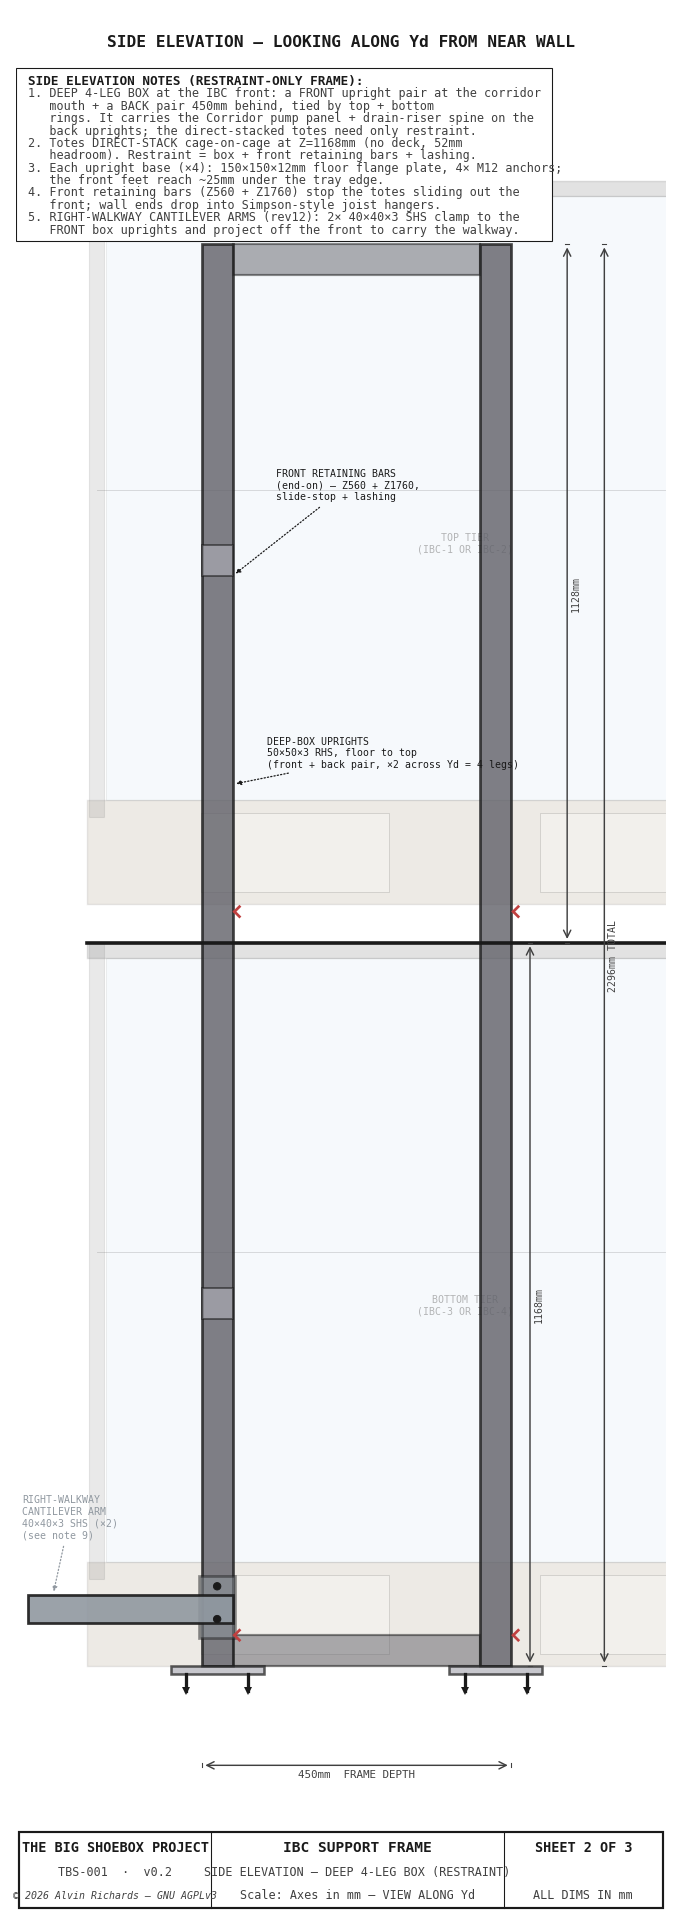
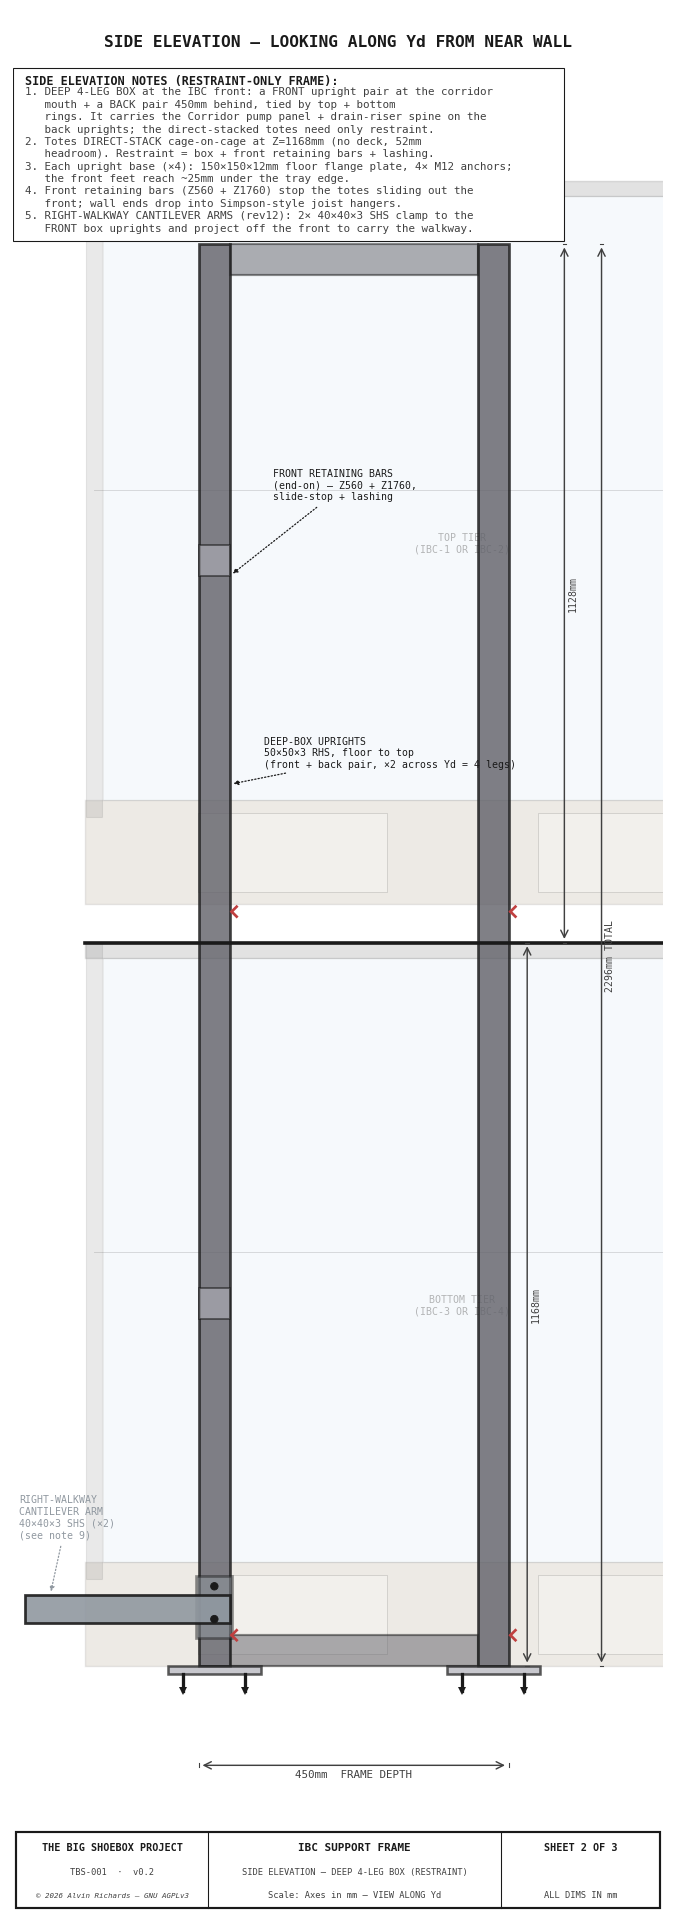
Tidy labels

diff --git a/src/generators/generate_ibc_frame_drawing.py b/src/generators/generate_ibc_frame_drawing.py
@@ -181,7 +181,7 @@ def _foot_elev(ax, c, *, zo=7):
     """Floor flange foot in elevation (edge-on): a wide thin plate just below
     Z=0 plus two anchor-bolt stubs.  `c` = horizontal position (Yd or X)."""
     half = FOOT_PLATE / 2
-    _rhs_rect(ax, c - half, -FOOT_PLATE_T, FOOT_PLATE, FOOT_PLATE_T, 
+    _rhs_rect(ax, c - half, -FOOT_PLATE_T, FOOT_PLATE, FOOT_PLATE_T,
               fc=C_STEEL, lw=1.4, zo=zo)
     for d in (-FOOT_BOLT_PCD / 2, FOOT_BOLT_PCD / 2):
         ax.plot([(c + d), (c + d)],
@@ -371,14 +371,14 @@ def sheet1():
     # ── Ghost IBC outlines (cage/pallet anatomy) — v2 layout: Brown/Waste bottom,
     #    Blue on top; DIRECT-STACK so the top tier sits at the junction (no deck). ──
     plat_top = PLATFORM_Z                       # 1168 — top tier bears directly on the lower tote
-    _ghost_ibc_elev(ax, BLUE_IBC_Y, 0, IBC_D, 
+    _ghost_ibc_elev(ax, BLUE_IBC_Y, 0, IBC_D,
                     label="IBC-3\n(BROWN, BOT NEAR)")
-    _ghost_ibc_elev_far(ax, IBC_FAR_Y, 0, IBC_D, 
+    _ghost_ibc_elev_far(ax, IBC_FAR_Y, 0, IBC_D,
                         label="IBC-4\n(WASTE, BOT FAR)")
     # Top tier (direct-stack)
-    _ghost_ibc_elev(ax, BLUE_IBC_Y, plat_top, IBC_D, 
+    _ghost_ibc_elev(ax, BLUE_IBC_Y, plat_top, IBC_D,
                     label="IBC-1\n(BLUE, TOP NEAR)")
-    _ghost_ibc_elev_far(ax, IBC_FAR_Y, plat_top, IBC_D, 
+    _ghost_ibc_elev_far(ax, IBC_FAR_Y, plat_top, IBC_D,
                         label="IBC-2\n(BLUE, TOP FAR)")
 
     # ── Front pair of the deep 4-leg box — two full-height corridor uprights.
@@ -405,10 +405,10 @@ def sheet1():
     # D-ring lashing holders. Two bars per column at the lower/upper tote mids.
     for bz in (560, 1760):
         for y0, y1 in ((0, NEAR_COL_R + FRAME_RHS), (FAR_COL_L - FRAME_RHS, C_WID)):
-            _rhs_rect(ax, y0, bz, y1 - y0, FRAME_RHS, 
+            _rhs_rect(ax, y0, bz, y1 - y0, FRAME_RHS,
                       fc=C_STEEL, alpha=0.55, lw=1.0, zo=9)
         for wyd, din in ((0, 1), (C_WID, -1)):   # wall joist hangers (U-pocket)
-            _rhs_rect(ax, min(wyd, wyd + din * 60), bz - 8, 60, FRAME_RHS + 16, 
+            _rhs_rect(ax, min(wyd, wyd + din * 60), bz - 8, 60, FRAME_RHS + 16,
                       fc=C_STEEL, lw=1.0, zo=10)
     for ydh in (520, 940, 1422, C_WID - 520):    # D-ring lashing holders (4 per tier, 8 total)
         for bz in (560, 1760):
@@ -558,7 +558,7 @@ def sheet1():
         f"10. Total frame weight: ~90 kg (incl. 4 feet + rings + front bars + hangers + exterior wall plates + rear-panel brackets).",
     ]
     draw_notes(ax, notes, (2500), (TOP_Z + 600), spacing=(23),
-               fs=7, font=FONT, width=(1800))
+               fs=7, font=FONT, width=(2200))
 
     # ── Title block ─────────────────────────────────────────────────────────
     title_block(ax, "SHEET 1 OF 3",
@@ -615,10 +615,10 @@ def sheet2():
     ibc_x_offset = (FRAME_FOOTPRINT_D - IBC_W) / 2 + 200# ~32.5mm
     plat_top = PLATFORM_Z + FRAME_RHS + MAT_T
     # Bottom tier
-    _ghost_ibc_elev(ax, ibc_x_offset, 0, IBC_W, 
+    _ghost_ibc_elev(ax, ibc_x_offset, 0, IBC_W,
                     label="BOTTOM TIER\n(IBC-3 OR IBC-4)")
     # Top tier
-    _ghost_ibc_elev(ax, ibc_x_offset, plat_top, IBC_W, 
+    _ghost_ibc_elev(ax, ibc_x_offset, plat_top, IBC_W,
                     label="TOP TIER\n(IBC-1 OR IBC-2)")
 
     # ── Uprights (deep 4-leg box: front pair + back pair, 450mm apart) ───────
@@ -640,7 +640,7 @@ def sheet2():
 
     # ── Front retaining bars (end-on at the IBC front, both tiers) ──────────
     for bz in (560, 1760):
-        _rhs_rect(ax, FX_FRONT, bz, FRAME_RHS, FRAME_RHS, 
+        _rhs_rect(ax, FX_FRONT, bz, FRAME_RHS, FRAME_RHS,
                   fc=C_STEEL, alpha=0.6, lw=1.0, zo=8)
 
     # ── Weld symbols at upright/beam joints ─────────────────────────────────
@@ -715,7 +715,7 @@ def sheet2():
          "   FRONT box uprights and project off the front to carry the walkway.",
     ]
     draw_notes(ax, notes, (X_LO + 20), (Z_HI - 100), spacing=(20),
-               fs=6.5, font=FONT, width=(825))
+               fs=6, font=FONT, width=(850))
 
     # ── Title block ─────────────────────────────────────────────────────────
     title_block(ax, "SHEET 2 OF 3",
@@ -776,14 +776,14 @@ def sheet3():
                       fc=C_FRAME, alpha=0.85, lw=1.4)
     # Front retaining bars run in Yd at the IBC front (wall -> upright per column).
     for y0, y1 in ((0, POST_NEAR_YD + FRAME_RHS), (POST_FAR_YD, FRAME_FOOTPRINT_W)):
-        _rhs_rect(ax, FX_FRONT, y0, FRAME_RHS, y1 - y0, 
+        _rhs_rect(ax, FX_FRONT, y0, FRAME_RHS, y1 - y0,
                   fc=C_STEEL, alpha=0.55, lw=1.0)
 
     # ── IBC footprint ghost outlines (with cage/pallet anatomy) ──────────────
     ibc_x = FX_FRONT + 20              # tote front ~20mm behind the box front (corridor mouth); totes extend back
-    _ghost_ibc_plan(ax, ibc_x, near_mat_yd, IBC_W, IBC_D, 
+    _ghost_ibc_plan(ax, ibc_x, near_mat_yd, IBC_W, IBC_D,
                     label="IBC PALLET\nFOOTPRINT")
-    _ghost_ibc_plan(ax, ibc_x, far_mat_yd, IBC_W, IBC_D, 
+    _ghost_ibc_plan(ax, ibc_x, far_mat_yd, IBC_W, IBC_D,
                     label="IBC PALLET\nFOOTPRINT")
 
     # ── Corridor opening ────────────────────────────────────────────────────
